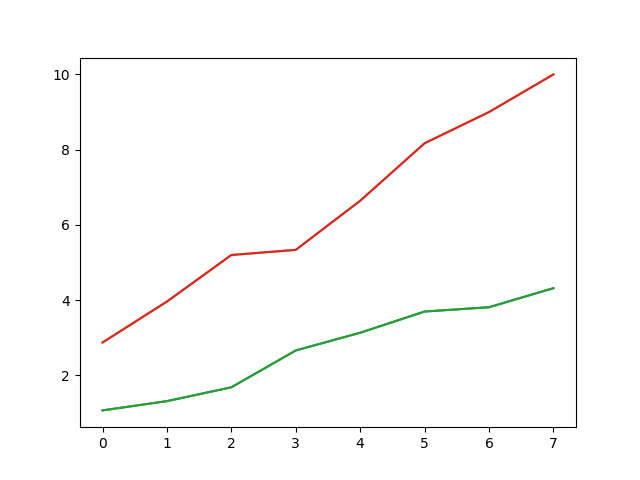
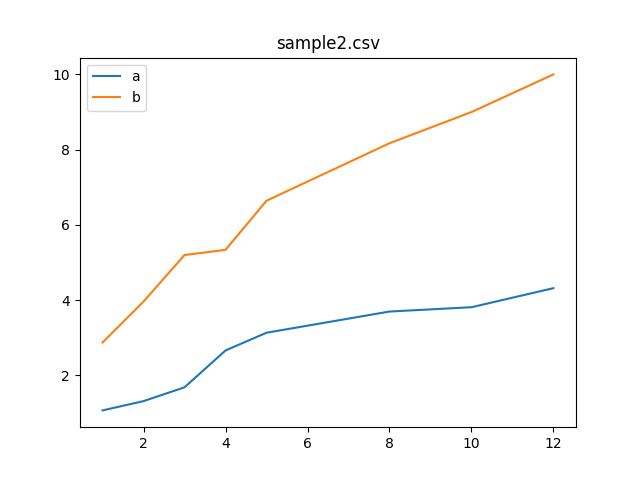
edit draw title and legend

diff --git a/main.py b/main.py
@@ -11,13 +11,13 @@ def main():
 
 def csv2png(file):
     df = pd.read_csv(file, index_col=0)
-    plt.plot(df)
+    for i, dat in df.iteritems():
+        # print(i,dat)
+        plt.plot(df.index, dat, label = i)
+    plt.title(file)
+    plt.legend()
     plt.savefig(file+".png")
-
-
-
-
-
+    plt.close()
 
 
 if __name__ == '__main__':
